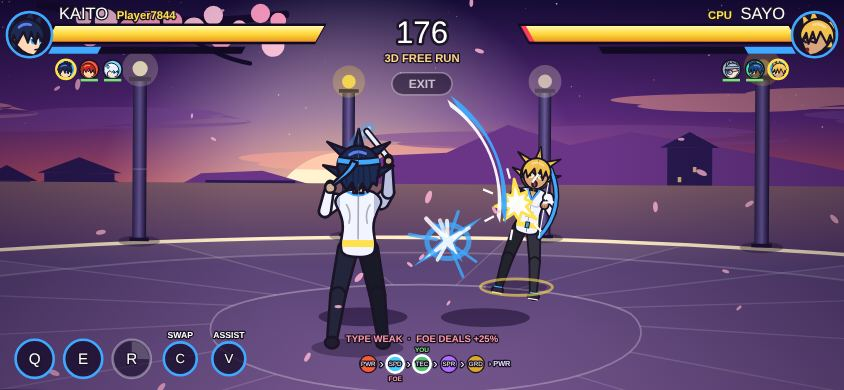
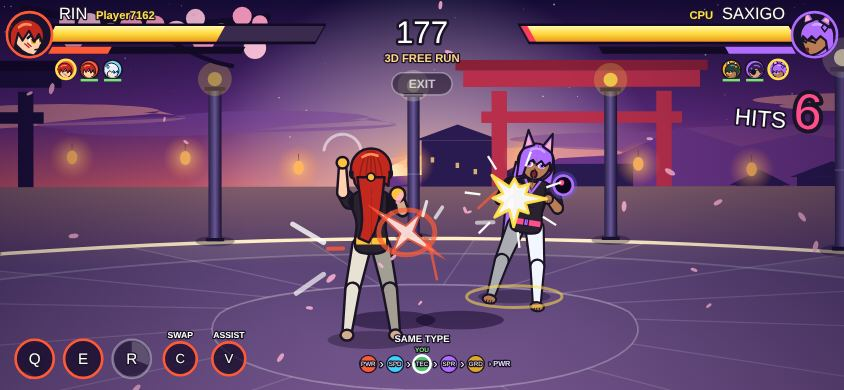
3D FREE RUN: knock-ups, sparks and shots in the over-the-shoulder view
Claude-Session: https://claude.ai/code/session_017cgwRBCAgYAgyBwMSYA7Tu

diff --git a/look.js b/look.js
@@ -1417,6 +1417,11 @@ try{window.COMBO_TITLE_CH=['KENKO','NETO']}catch(e){}
  const K=620,HYO=()=>84*cam.z*(S3.osq||0),PJ=(wx,wd)=>{const z=cam.z,ay=cam.ay,hy=cam.ay-26*z-cam.y*z*.6-HYO(),cx=(G.f[0].x+G.f[1].x)/2,d=Math.max(wd,-K*.86),s=K/(K+d);return[W/2+(cx+wx-cam.x)*z*s,hy+(ay-hy)*s+(s>1?(s-1)*(H-ay)*.9:0),s]};
  /* FREE RUN controls follow the camera: pushing up runs at the opponent and down backs away while the camera is behind you, left and right circle; in the side-on view left and right move and up and down circle */
  const gi0=gatherInput;gatherInput=function(dt){gi0(dt);try{if(A()!=='free'||G.mode!=='fight')return;const me=G.f[G.me||0],en=G.f[1-(G.me||0)],ph=S3.phi||0,ix=PI.mx,iy=-dirIn(),to=Math.sign(en.x-me.x)||1;PI.mx=clamp(Math.round(ix*Math.cos(ph)+iy*Math.sin(ph)*to),-1,1);S3.circ=-iy*Math.cos(ph)+ix*Math.sin(ph)}catch(e){}};
+ /* the game's own hit sparks, speed lines, bolts and shots are placed on the arena floor between the two fighters in FREE RUN (they used to stay on the flat fight line); the side-view slash arcs and afterimages are left out there because the fighters are not drawn from the side */
+ const PX=x=>{const a=G.f[G.me||0],b=G.f[1-(G.me||0)],ph=S3.phi||0,sd=S3.sd||1,osq=S3.osq||0,cx=(G.f[0].x+G.f[1].x)/2,t=clamp((x-a.x)/((b.x-a.x)||1),0,1),xq=x-cx;return PJ(xq*Math.cos(ph)+lerp(-78,62,t)*osq,clamp(xq*Math.sin(ph)*sd*(1+.7*osq)+lerp(-70,40,t)*osq,-175,620))};
+ const each=(list,fn,key)=>{const all=G[key];try{for(const e of all){const x=e.type==='arc'||e.type==='ghost'?null:typeof e.x==='number'?e.x:null;if(e.type==='arc'||e.type==='ghost')continue;G[key]=[e];if(x==null){fn();continue}const p=PX(x),k=clamp(p[2],.5,1.85);g.save();g.translate(cam.x+(p[0]-W/2)/cam.z,(p[1]-cam.ay)/cam.z);g.scale(k*(key==='proj'?.62:1),k);g.translate(-x,0);try{fn()}finally{g.restore()}}}finally{G[key]=all}};
+ const fx0=drawFX;drawFX=function(){if(A()!=='free'||(S3.osq||0)<.5)return fx0();try{each(G.fx,fx0,'fx')}catch(e){}};
+ const pj0=drawProj;drawProj=function(){if(A()!=='free'||(S3.osq||0)<.5)return pj0();try{each(G.proj,pj0,'proj')}catch(e){}};
  const BURST=(f,sc)=>{const ha=performance.now()/1000-(f.a3h||-9);if(ha<0||ha>.24)return;const w=ha/.24,bl=f.a3hb,R=(bl?26:44)*sc*(.5+w*.9),cy=f.y-92*sc,col=bl?'#8fd0ff':'#ffe14d';g.save();g.translate(f.x,cy);g.globalAlpha=1-w*w;
    g.beginPath();for(let i=0;i<16;i++){const a=i/16*TAU+f.a3h*7,r=i%2?R*.38:R*(.8+.2*Math.sin(i*5+f.a3h*3));g[i?'lineTo':'moveTo'](Math.cos(a)*r,Math.sin(a)*r)}g.closePath();g.fillStyle='#fff';g.fill();g.strokeStyle=col;g.lineWidth=3;g.stroke();
    g.strokeStyle='#fff';g.lineWidth=2.4;for(let i=0;i<7;i++){const a=i/7*TAU+f.a3h*3,r0=R*1.05,r1=R*(1.35+w*.9);g.beginPath();g.moveTo(Math.cos(a)*r0,Math.sin(a)*r0);g.lineTo(Math.cos(a)*r1,Math.sin(a)*r1);g.stroke()}
@@ -1430,19 +1435,22 @@ try{window.COMBO_TITLE_CH=['KENKO','NETO']}catch(e){}
    /* the body turns to look 3D (Trey): stepping or running into the screen shows the fighter's back, toward the camera shows their front. The turn is a quick swivel: the side view narrows, swaps to the front or back drawing, and widens again; they bob as they run. */
    /* every angle of the body (Trey: a drawing of every angle): the turn goes side view -> three-quarter view -> full front (toward the camera) or full back (into the screen), in both directions, so eight directions in all.
       The three-quarter views are the front or back drawing with the far half of the body drawn narrower than the near half, which is what a body turned 45 degrees looks like. */
-   try{const meF=G.f[G.me||0],fat=A()==='free'&&f.state==='atk'&&f.mv&&!sil,fhu=A()==='free'&&f.state==='hurt'&&!sil&&f.y>=0,frr=A()==='free'&&(f.state==='idle'||f.state==='run'||f.state==='guard'||fat||fhu),tn=frr?Math.max(f.a3tn||0,clamp((ph-.45)/.6,0,1)):(f.a3tn||0);if(tn>.03&&!sil&&f.c){
+   try{const meF=G.f[G.me||0],fat=A()==='free'&&f.state==='atk'&&f.mv&&!sil,fhu=A()==='free'&&f.state==='hurt'&&!sil&&f.y>=0,fln=A()==='free'&&f.state==='launch'&&!sil,frr=A()==='free'&&(f.state==='idle'||f.state==='run'||f.state==='guard'||fat||fhu||fln||(!sil&&(f.state==='air'||f.state==='dash'||f.state==='getup'))),tn=frr?Math.max(f.a3tn||0,clamp((ph-.45)/.6,0,1)):(f.a3tn||0);if(tn>.03&&!sil&&f.c){
      if(tn<.3){const sx=1-.5*(tn/.3);g.translate(f.x,0);g.scale(sx,1);g.translate(-f.x,0)}
-     else{const q=clamp((tn-.3)/.7,0,1),far=lerp(.34,1,q*q),near=lerp(.72,1,q),away=frr&&ph>.45?(f===meF):(f.a3td||1)<0,mov=f.state==='run'||f.a3c,fn=away?window.CBACK:(window.CFRONT||drawFrontChar),bob=mov?Math.abs(Math.sin(G.t*11))*5:f.a3s?Math.sin(f.a3s.t/.34*Math.PI)*7:0,sc=f.c.sc||1,fs=(f.face||1)*(away?-1:1);
+     else{const q=clamp((tn-.3)/.7,0,1),far=lerp(.34,1,q*q),near=lerp(.72,1,q),away=frr&&ph>.45?(f===meF):(f.a3td||1)<0,mov=f.state==='run'||f.state==='dash'||f.a3c,fn=away?window.CBACK:(window.CFRONT||drawFrontChar),bob=mov?Math.abs(Math.sin(G.t*11))*5:f.a3s?Math.sin(f.a3s.t/.34*Math.PI)*7:0,sc=f.c.sc||1,fs=(f.face||1)*(away?-1:1);
       if(fn){g.fillStyle='rgba(10,4,24,.3)';g.beginPath();g.ellipse(f.x,0,34*sc,7,0,0,TAU);g.fill();/* they keep their fighting stance while turned (Trey): legs apart with bent knees and both hands up; the back view walks its legs while moving */const o={t:G.t+f.side*1.7,expr:away?'':'angry',stance:1,fwd:1,walk:mov?G.t*12:0};
        /* hands in front and attacks in front (Trey): in FREE RUN the arms are held in front of the body, and attacks and ultimates are drawn from the same over-the-shoulder view, thrown forward at the opponent (yours away from the camera, theirs toward it) */
        let lg=0;if(fat){let id='';try{id=mvId(f)||''}catch(e){}const ult=id==='U',wb=['katana','dagger','staff','bo'].includes(f.c.weapon),n=ult?Math.floor(f.st*3.4):(+id[1]||0),u=ult?(f.st*3.4)%1:clamp(f.st/(f.mv.dur||.4),0,1);
         o.atk={u,k:wb?2:(f.c.weapon==='fist'&&!ult&&(id==='L3'||id==='H'||id==='AH'))?1:0,arm:wb?1:(n%2?1:-1)};o.expr=away?'':'yell';lg=Math.sin(u*Math.PI);
         if(ult){g.save();g.translate(f.x,f.y-70*sc);for(let r=0;r<3;r++){const q2=(G.t*1.6+r/3)%1;g.globalAlpha=(1-q2)*.6;g.strokeStyle=r%2?'#fff':f.c.col;g.lineWidth=5*(1-q2)+1;g.beginPath();g.ellipse(0,0,(30+q2*90)*sc,(40+q2*110)*sc,0,0,TAU);g.stroke()}g.restore()}}
        /* a hit fighter rocks back in the same view, mouth open, instead of switching to the side drawing */
-       const hw=fhu?clamp(1-(NOW-(f.a3h||-9))/.3,0,1):0;if(fhu){o.expr=away?'':'yell';o.fwd=0;o.stance=1}
-       [1,-1].forEach(h=>{const k=(h===fs?far:near);g.save();if(fhu){g.translate(f.x,f.y);g.rotate((away?1:-1)*(f.side>0?-1:1)*.13*(.4+hw));g.translate(-f.x,-f.y-(away?5:-5)*hw)}g.translate(f.x+(fs*(near-far)*9*sc),f.y-bob+(away?-7:8)*lg*sc);g.scale(k*sc*(1+(away?-.05:.09)*lg),sc*(1+(away?-.05:.09)*lg));g.beginPath();g.rect(h>0?0:-260,-420,260,520);g.clip();try{fn(f.c,o)}catch(e){}g.restore()});BURST(f,sc);return}}}
+       const hw=fhu?clamp(1-(NOW-(f.a3h||-9))/.3,0,1):0;if(fhu||fln){o.expr=away?'':'yell';o.fwd=0;o.stance=1}
+       [1,-1].forEach(h=>{const k=(h===fs?far:near);g.save();if(fhu){g.translate(f.x,f.y);g.rotate((away?1:-1)*(f.side>0?-1:1)*.13*(.4+hw));g.translate(-f.x,-f.y-(away?5:-5)*hw)}
+        /* knocked into the air: the same drawing tips over backwards as it flies; getting up: it rises from a crouch */
+        if(fln){const R=(away?1:-1)*(f.side>0?-1:1)*(.45+.75*clamp(f.st*2.2,0,1));g.translate(f.x,f.y-62*sc);g.rotate(R);g.translate(-f.x,-f.y+62*sc)}
+        if(f.state==='getup'){const gy=clamp(.5+f.st*1.6,.5,1);g.translate(0,f.y);g.scale(1,gy);g.translate(0,-f.y)}g.translate(f.x+(fs*(near-far)*9*sc),f.y-bob+(away?-7:8)*lg*sc);g.scale(k*sc*(1+(away?-.05:.09)*lg),sc*(1+(away?-.05:.09)*lg));g.beginPath();g.rect(h>0?0:-260,-420,260,520);g.clip();try{fn(f.c,o)}catch(e){}g.restore()});BURST(f,sc);return}}}
     /* attacks, hits and falls only exist as side drawings; seen from over the shoulder they are drawn narrower, as a body moving into or out of the screen would look */
-    if(A()==='free'&&!sil){const q=clamp((ph-.45)/.6,0,1);if(q>0){g.translate(f.x,0);g.scale(lerp(1,.58,q),1);g.translate(-f.x,0)}}
+    if(A()==='free'&&!sil&&f.state!=='down'){const q=clamp((ph-.45)/.6,0,1);if(q>0){g.translate(f.x,0);g.scale(lerp(1,.58,q),1);g.translate(-f.x,0)}}
     return df0.apply(this,arguments)}finally{g.restore();
     /* pillars on the near side of the ring pass in front of the fighters, big and dark, in FREE RUN (drawn once per frame, after the second fighter) */
     try{if(!sil&&A()==='free'&&(S3.osq||0)>.5){if(S3.dfT===G.t&&S3.fgT!==G.t){S3.fgT=G.t;const ang=S3.ang-(S3.phi||0)*(S3.sd||1),tr=g.getTransform();g.save();g.setTransform(S*dpr,0,0,S*dpr,0,0);
